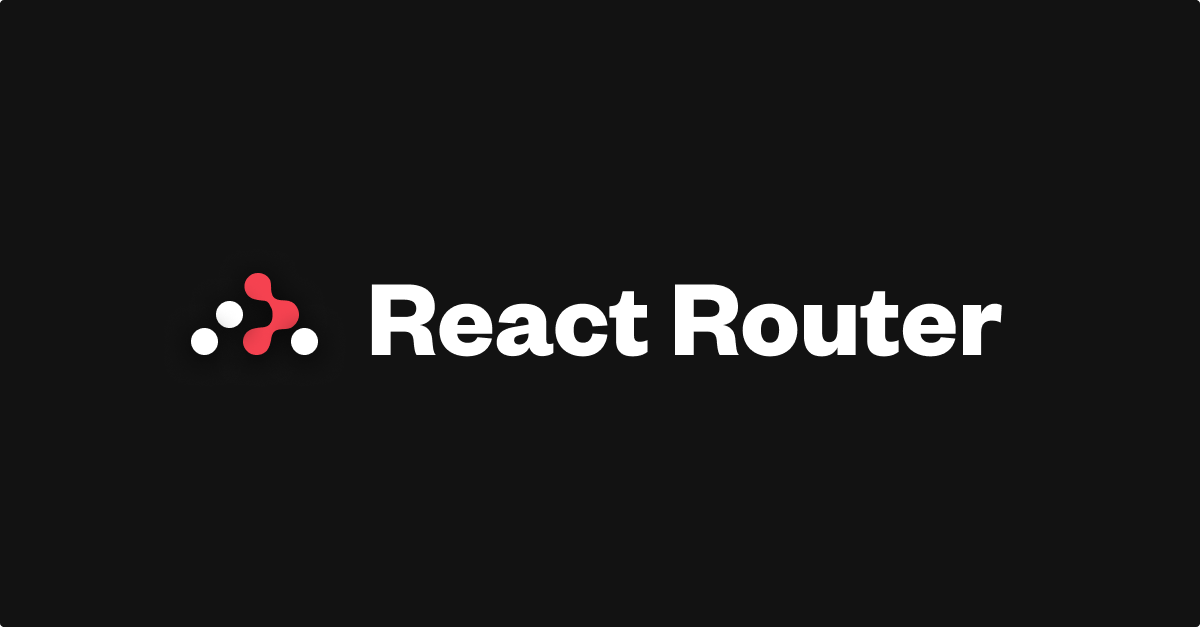
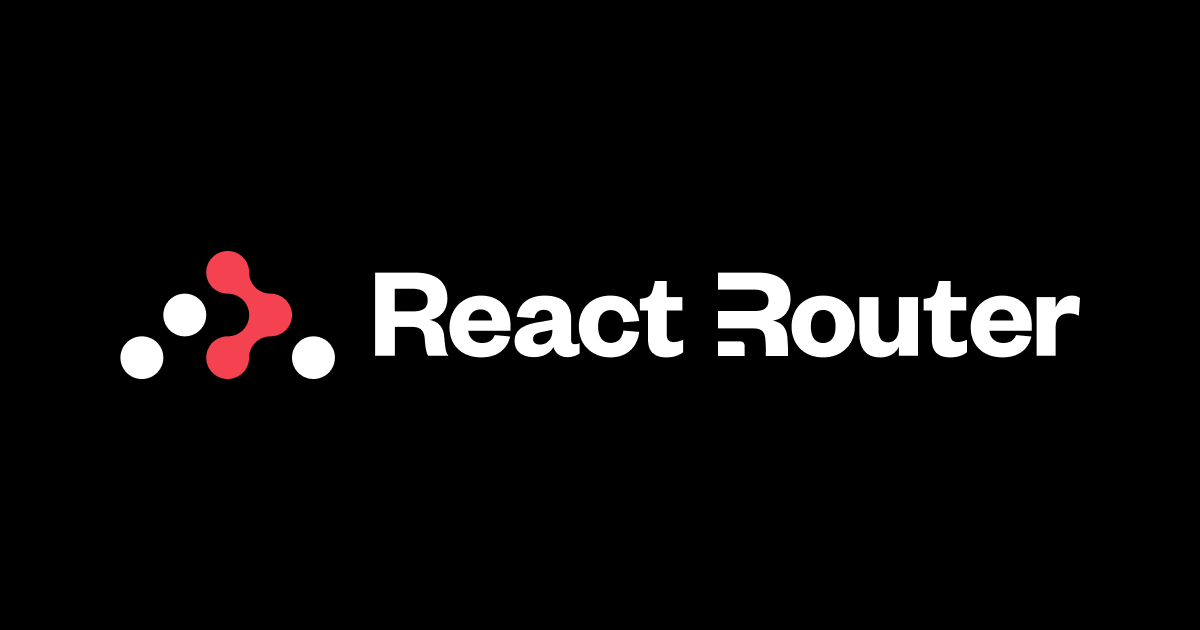
Update meta images

Changed region(s): [[0.3083, 0.4242, 0.8942, 0.5758], [0.0925, 0.3939, 0.2775, 0.6061]]

diff --git a/app/seo.ts b/app/seo.ts
@@ -8,9 +8,9 @@ export const seo = getSeo({
     site: "@remix_run",
     creator: "@remix_run",
     title: "React Router",
-    card: "summary",
+    card: "summary_large_image",
     image: {
-      url: "/twitterimage.jpg",
+      url: "/ogimage.jpg",
       alt: "React Router logo",
     },
   },
